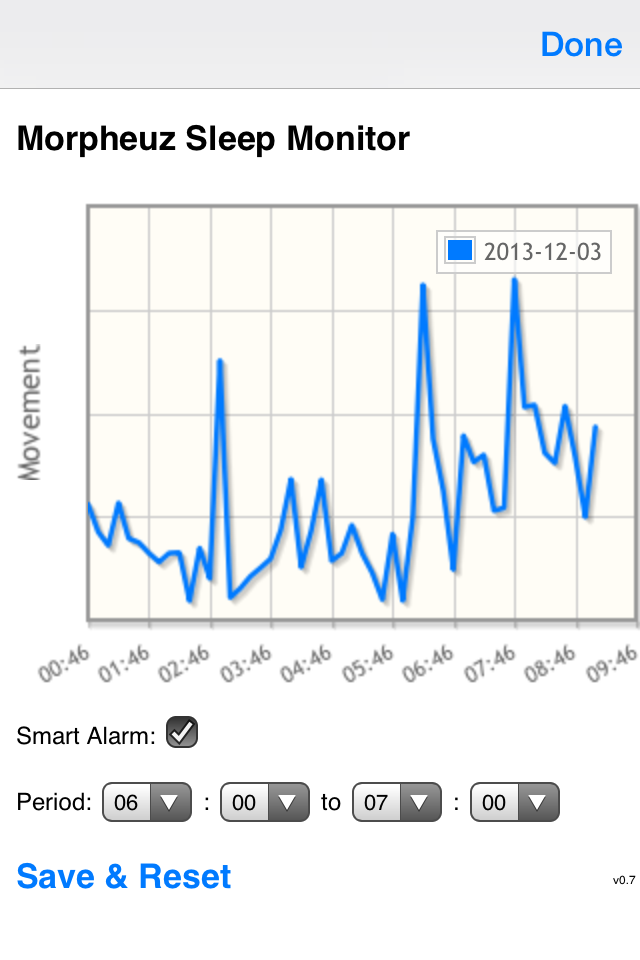
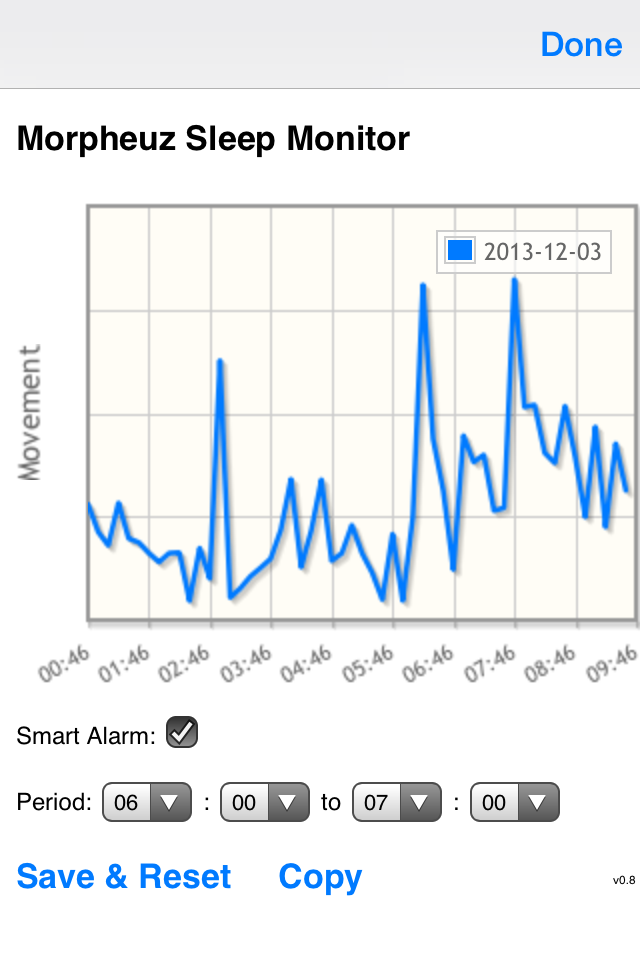
Version 0.8
Copy as mailto:

Changed region(s): [[0.9062, 0.4375, 1.0, 0.5625], [0.4375, 0.875, 0.5625, 0.9375]]

diff --git a/website/morpheuz/view4.html b/website/morpheuz/view4.html
@@ -1,0 +1,340 @@
+<!DOCTYPE html>
+<html>
+<!-- Graph page for version 0.8.0 of Morpheuz -->
+<head>
+<title>Morpheuz Sleep Monitor</title>
+<style>
+body {
+   width: 320px;
+   font-family: "Lucida Sans Unicode", "Lucida Grande", sans-serif;
+}
+
+h2 {
+font-size: 17px;
+}
+
+p {
+font-size: 12px;
+}
+
+#version {
+font-size: 6px;
+width: 310px;
+text-align: right;
+display:block;
+position: relative;
+top:-14px
+}
+
+#reset {
+  border: none;
+  background-color: transparent;
+  color: rgb(0,122,255);
+  font-size: 17px;
+  font-weight: 500;
+  margin-left:0px;
+  text-align:left;
+  border-left:0px;
+  padding-left:0px;
+}
+
+#copy {
+  border: none;
+  background-color: transparent;
+  color: rgb(0,122,255);
+  font-size: 17px;
+  font-weight: 500;
+  margin-left:0px;
+  text-align:left;
+  border-left:0px;
+  padding-left:0px;
+  text-decoration: none;
+}
+</style>
+<script language="javascript" type="text/javascript"
+	src="jqplot/jquery.min.js"></script>
+<script language="javascript" type="text/javascript"
+	src="jqplot/jquery.jqplot.min.js"></script>
+<link rel="stylesheet" type="text/css" href="jqplot/jquery.jqplot.css" />
+<script type="text/javascript"
+	src="jqplot/plugins/jqplot.canvasTextRenderer.min.js"></script>
+<script type="text/javascript"
+	src="jqplot/plugins/jqplot.canvasAxisLabelRenderer.min.js"></script>
+
+<script type="text/javascript" src="jqplot/plugins/jqplot.dateAxisRenderer.min.js"></script>
+<script type="text/javascript" src="jqplot/plugins/jqplot.canvasTextRenderer.min.js"></script>
+<script type="text/javascript" src="jqplot/plugins/jqplot.canvasAxisTickRenderer.min.js"></script>
+<script type="text/javascript" src="jqplot/plugins/jqplot.categoryAxisRenderer.min.js"></script>
+<script type="text/javascript" src="jqplot/plugins/jqplot.barRenderer.min.js"></script>
+</head>
+<body>
+	<form action="">
+		<h2 id="title">Morpheuz Sleep Monitor</h2>
+		<div id="chart1" style="width: 320px; height: 250px;"></div>
+		<p>
+			<label for="smartalarm">Smart Alarm:</label> <input id="smartalarm"
+				type="checkbox" />
+		</p>
+		<p>
+			<label for="smartalarm">Period:</label> <select id="safromhour">
+				<option>00</option>
+				<option>01</option>
+				<option>02</option>
+				<option>03</option>
+				<option>04</option>
+				<option>05</option>
+				<option selected>06</option>
+				<option>07</option>
+				<option>08</option>
+				<option>09</option>
+				<option>10</option>
+				<option>11</option>
+				<option>12</option>
+				<option>13</option>
+				<option>14</option>
+				<option>15</option>
+				<option>16</option>
+				<option>17</option>
+				<option>18</option>
+				<option>19</option>
+				<option>20</option>
+				<option>21</option>
+				<option>22</option>
+				<option>23</option>
+			</select> : <select id="safrommin">
+				<option>00</option>
+				<option>15</option>
+				<option selected>30</option>
+				<option>45</option>
+			</select> to <select id="satohour">
+				<option>00</option>
+				<option>01</option>
+				<option>02</option>
+				<option>03</option>
+				<option>04</option>
+				<option>05</option>
+				<option>06</option>
+				<option selected>07</option>
+				<option>08</option>
+				<option>09</option>
+				<option>10</option>
+				<option>11</option>
+				<option>12</option>
+				<option>13</option>
+				<option>14</option>
+				<option>15</option>
+				<option>16</option>
+				<option>17</option>
+				<option>18</option>
+				<option>19</option>
+				<option>20</option>
+				<option>21</option>
+				<option>22</option>
+				<option>23</option>
+			</select> : <select id="satomin">
+				<option>00</option>
+				<option selected>15</option>
+				<option>30</option>
+				<option>45</option>
+			</select>
+		</p>
+		<button id="reset" type="button">Save & Reset</button>
+		<a id="copy" href="mailto:?subject=Greetings%20from%20Cupertino!&body=Wish%20you%20were%20here!">Copy</a>
+               <span id="version">v0.5</span>
+	</form>
+	<script language='javascript' type="text/javascript">
+		Date.prototype.format = function(format) //author: meizz
+		{
+			var o = {
+				"M+" : this.getMonth() + 1, //month
+				"d+" : this.getDate(), //day
+				"h+" : this.getHours(), //hour
+				"i+" : this.getHours() + 1, //hour + 1
+				"m+" : this.getMinutes(), //minute
+				"s+" : this.getSeconds(), //second
+				"q+" : Math.floor((this.getMonth() + 3) / 3), //quarter
+				"S" : this.getMilliseconds()
+			//millisecond
+			}
+
+			if (/(y+)/.test(format))
+				format = format.replace(RegExp.$1, (this.getFullYear() + "")
+						.substr(4 - RegExp.$1.length));
+			for ( var k in o)
+				if (new RegExp("(" + k + ")").test(format))
+					format = format.replace(RegExp.$1,
+							RegExp.$1.length == 1 ? o[k] : ("00" + o[k])
+									.substr(("" + o[k]).length));
+			return format;
+		}
+
+              Date.prototype.addMinutes = function(minutes) {
+                        var copiedDate = new Date(this.getTime());
+                        return new Date(copiedDate.getTime() + minutes * 60000);
+              }
+
+		function setSelectedValue(selectObj, valueToSet) {
+			for (var i = 0; i < selectObj.options.length; i++) {
+				if (selectObj.options[i].text == valueToSet) {
+					selectObj.options[i].selected = true;
+					return;
+				}
+			}
+		}
+		function getSelectedValue(selectObj) {
+			return selectObj.options[selectObj.selectedIndex].value;
+		}
+
+		function getParameterByName(name) {
+			name = name.replace(/[\[]/, "\\\[").replace(/[\]]/, "\\\]");
+			var regex = new RegExp("[\\?&]" + name + "=([^&#]*)"), results = regex
+					.exec(location.search);
+			return results == null ? "" : decodeURIComponent(results[1]
+					.replace(/\+/g, " "));
+		}
+
+		var baseStr = getParameterByName('base');
+               var base = new Date().valueOf();
+		if (baseStr != "" && baseStr != 'null') {
+			base = parseInt(baseStr);
+               }
+		var graph = getParameterByName("graph");
+		var fromhr = getParameterByName("fromhr");
+		var frommin = getParameterByName("frommin");
+		var tohr = getParameterByName("tohr");
+		var tomin = getParameterByName("tomin");
+		var smart = getParameterByName("smart");
+               var vers = getParameterByName("vers");
+
+		document.getElementById('smartalarm').checked = smart == 'Y';
+		setSelectedValue(document.getElementById('safromhour'), fromhr);
+		setSelectedValue(document.getElementById('safrommin'), frommin);
+		setSelectedValue(document.getElementById('satohour'), tohr);
+		setSelectedValue(document.getElementById('satomin'), tomin);
+               document.getElementById("version").innerText = vers;
+
+               var startPoint = new Date(base);
+
+		var splitup = graph.split("!");
+               var more = new Array();
+
+		for (var i=0; i<splitup.length; i++) {
+			if (splitup[i] == '')
+				continue;
+			var element = new Array();
+                      element[0] = startPoint;
+                      element[1] = parseInt(splitup[i]);
+                      if (element[1] == -1) 
+				element[1] = null;
+			more[i] = element;
+                      startPoint = startPoint.addMinutes(10);
+               }
+
+		$(document).ready(function() {
+			var plot2 = $.jqplot('chart1', [more], {
+				series : [ {
+					showMarker : false,
+                                     breakOnNull : true,
+                                     color: 'rgb(0,122,255)',
+					label: new Date(base).format('yyyy-MM-dd')
+				} ],
+				// You can specify options for all axes on the plot at once with
+				// the axesDefaults object.  Here, we're using a canvas renderer
+				// to draw the axis label which allows rotated text.
+				axesDefaults : {
+					labelRenderer : $.jqplot.CanvasAxisLabelRenderer,
+					showTicks : false,
+					showTickMarks : false,
+				},
+                             legend: {
+                                       show: true,
+                                       location: 'ne',   
+                                       xoffset: 12,     
+                                       yoffset: 12,    
+                              },
+				// An axes object holds options for all axes.
+				// Allowable axes are xaxis, x2axis, yaxis, y2axis, y3axis, ...
+				// Up to 9 y axes are supported.
+				axes : {
+					// options for each axis are specified in seperate option objects.
+					xaxis : {
+                                             renderer:$.jqplot.DateAxisRenderer, 
+                                             tickRenderer: $.jqplot.CanvasAxisTickRenderer ,
+                                             tickOptions:{formatString:'%R', angle: -30, fontSize: '8pt'},
+                                             tickInterval:'1 hour',
+						// Turn off "padding".  This will allow data point to lie on the
+						// edges of the grid.  Default padding is 1.2 and will keep all
+						// points inside the bounds of the grid.
+						pad : 0,
+					       showTicks : true,
+					       showTickMarks : true,
+                                            min: new Date(base)
+					},
+					yaxis : {
+						label : "Movement",
+						min : -50,
+						max : 4000,
+					}
+				}
+			});
+		});
+
+               // Prepare the copy link
+               var timePoint = new Date(base);
+	       var body = '&body=';
+		
+		var first = true;
+		for (var i=0; i<splitup.length; i++) {
+			if (splitup[i] == '')
+				continue;
+                      if (!first)
+				body = body + ',';
+			else
+				first = false;
+                      body = body + timePoint.format('hh:MM');
+                      timePoint = timePoint.addMinutes(10);
+               }
+
+               body = body + '%0D%0A';
+		
+		first = true;
+		for (var i=0; i<splitup.length; i++) {
+			if (splitup[i] == '')
+				continue;
+                      if (!first)
+				body = body + ',';
+			else
+				first = false;
+                      body = body + splitup[i];
+               }
+
+               body = body + '%0D%0A';
+
+		var mailto = 'mailto:?subject=Morpheuz-' + new Date(base).format('yyyy-MM-dd') + '.csv' + body;
+
+		document.getElementById('copy').href = mailto;
+
+		document.getElementById('reset').onclick = function() {
+			var smartpart = document.getElementById('smartalarm').checked ? 'Y'
+					: 'N';
+			var fromhrpart = getSelectedValue(document
+					.getElementById('safromhour'));
+			var fromminpart = getSelectedValue(document
+					.getElementById('safrommin'));
+			var tohrpart = getSelectedValue(document.getElementById('satohour'));
+			var tominpart = getSelectedValue(document.getElementById('satomin'));
+
+			if ((fromhrpart + ":" + fromminpart) >= (tohrpart + ":" + tominpart)) {
+				document.getElementById('safromhour').style.border='1px solid red';
+		               document.getElementById('safrommin').style.border='1px solid red';
+		               document.getElementById('satohour').style.border='1px solid red';
+		               document.getElementById('satomin').style.border='1px solid red';
+                      } else {
+			window.location.href = "pebblejs://close#reset" + '!' + smartpart
+					+ '!' + fromhrpart + '!' + fromminpart + '!' + tohrpart
+					+ '!' + tominpart;
+                      }
+		}
+ </script>
+</body>
+</html>
